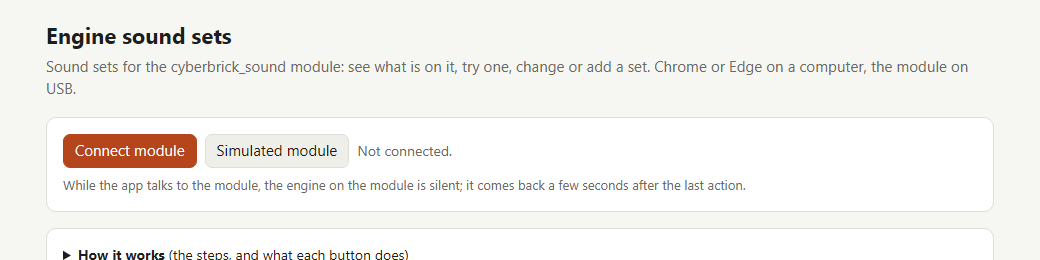
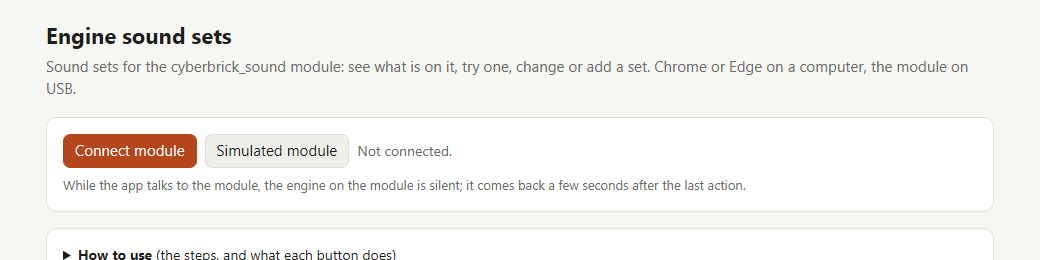
Panel How it works renamed How to use

Changed region(s): [[0.0923, 0.9538, 0.4, 1.0]]

diff --git a/web/index.html b/web/index.html
@@ -96,7 +96,7 @@ details.guide li { margin-bottom: 4px; }
 
   <section>
   <details class="guide" id="howto">
-    <summary><strong>How it works</strong> (the steps, and what each button does)</summary>
+    <summary><strong>How to use</strong> (the steps, and what each button does)</summary>
     <svg viewBox="0 0 900 96" role="img" aria-label="Steps: connect, test, default, copy or edit, write" style="width:100%;height:auto;margin:10px 0 4px">
       <defs><marker id="arr" viewBox="0 0 10 10" refX="8" refY="5" markerWidth="7" markerHeight="7" orient="auto"><path d="M0 0 L10 5 L0 10 z" fill="var(--muted)"/></marker></defs>
       <g font-size="15" text-anchor="middle" fill="var(--ink)">

diff --git a/tools/make_guide_images.py b/tools/make_guide_images.py
@@ -23,7 +23,7 @@ def main():
         pg = b.new_page(viewport={"width": 1040, "height": 900}, color_scheme="light")
         pg.goto(PAGE); pg.wait_for_timeout(600)
         pg.click("#howto summary"); pg.wait_for_timeout(300)
-        pg.locator("#howto").locator("xpath=..").screenshot(path=os.path.join(OUT, "01-how-it-works.png"))
+        pg.locator("#howto").locator("xpath=..").screenshot(path=os.path.join(OUT, "01-how-to-use.png"))
         pg.click("#howto summary")
         pg.screenshot(path=os.path.join(OUT, "02-start.png"), clip={"x": 0, "y": 0, "width": 1040, "height": 260})
         pg.click("#btnSim"); pg.wait_for_timeout(1500)

diff --git a/docs/user-sounds.md b/docs/user-sounds.md
@@ -337,7 +337,7 @@ neither does any browser on an iPhone or iPad; there the app says so and "Connec
 installing Chrome is enough. Tested so far only in Edge on Windows.
 
 - **User guide (2026-11-15):** `user-guide.md`, with pictures made by `tools/make_guide_images.py` (always the light
-  look, whatever the system's colour setting is) and a panel "How it works" at the top of the app. The firmware
+  look, whatever the system's colour setting is) and a panel "How to use" at the top of the app. The firmware
   version shows in the connection line and under the list (both confirmed on the real module by the owner,
   2026-11-15).
 - **Default set (2026-11-15)**: the row of the set the module starts with after power-up is tinted and has a green

diff --git a/docs/user-guide.md b/docs/user-guide.md
@@ -13,7 +13,7 @@ can be remade after any change of the app. How the sets and the protocol work in
 
 ## The steps
 
-![How it works](guide/01-how-it-works.png)
+![How to use](guide/01-how-to-use.png)
 
 1. **Connect** the module. 2. **Test** the sets you have. 3. Choose the **Default** one. 4. **Copy** or **Edit** a set to
 make your own. 5. **Write** it to the module.
